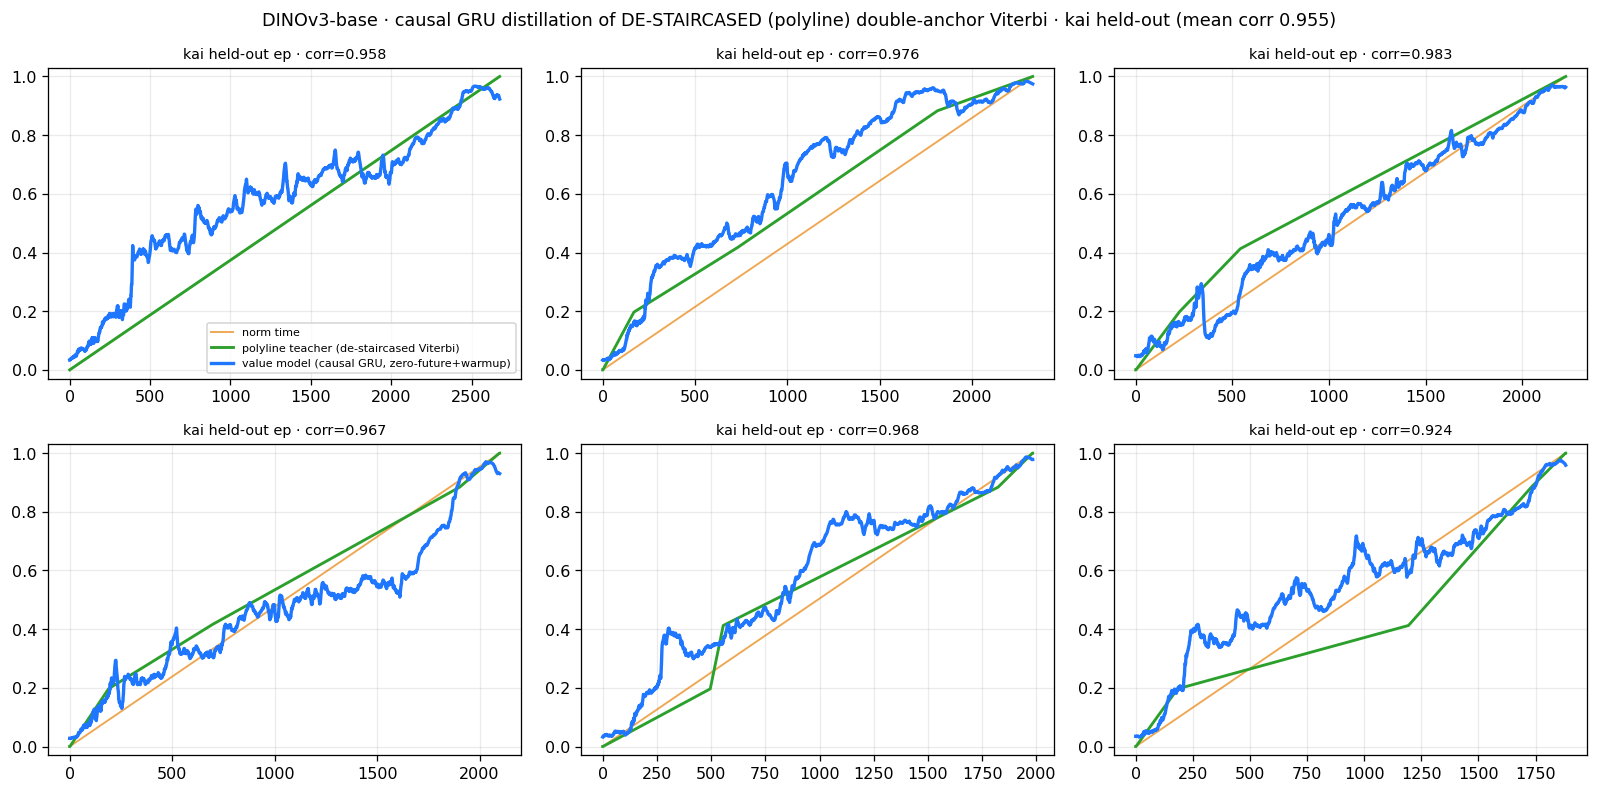
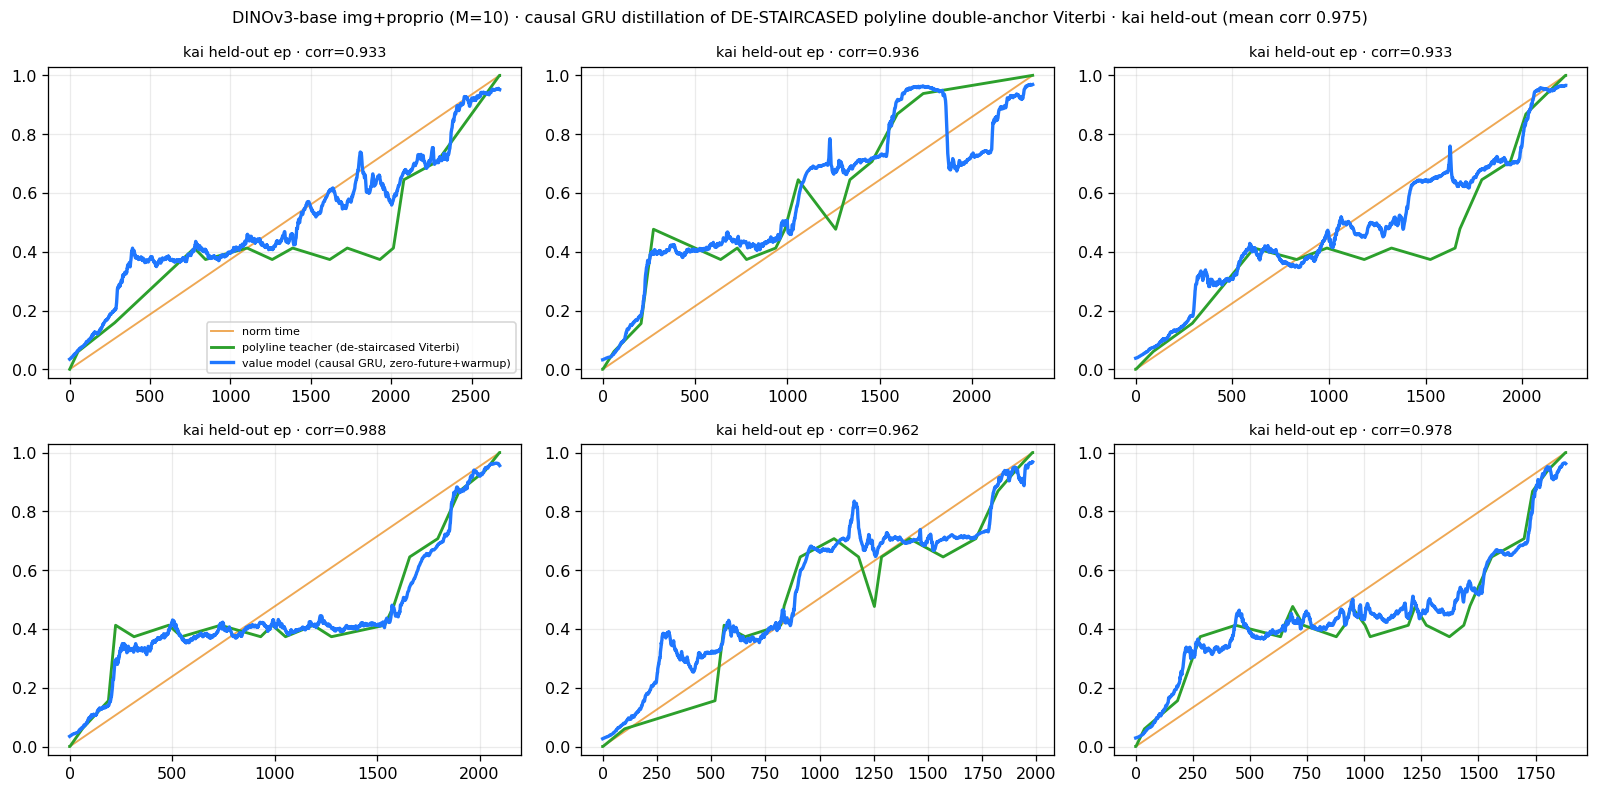
web报告§5.3: teacher过平根因修复(img-only M3→img⊕proprio M10)
- 用户发现 teacher 近直线; 诊断: kai-only img-only PCA 只聚出 M=3 milestone
  → knot 少且各 value≈其时间 + 多数ep step退化0→1 → polyline 塌成对角线
- 非 Viterbi 出错; 是漏了 proprio。对齐 online_readout_route 单任务方案:
  img PCA128 ⊕ proprio14(1:1 L2)→ M=10, teacher 现出~0.4折叠平台+拐点结构
- teacher-vs-T 0.955, GRU held-out 0.975; 更新图+caption; 存诊断图 diag_*_M3

diff --git a/web/showcase/reports/crave_report/index.html b/web/showcase/reports/crave_report/index.html
@@ -325,7 +325,7 @@ a.link{color:var(--accent3);text-decoration:none;border-bottom:1px dashed var(--
   <li><b>效果</b>:留出集(严格未见)corr vs 监督GT <b>0.955 ≥ 离线本身 0.943</b> → gap 归零,还平滑掉了离散阶梯噪声。</li>
 </ul>
 <figure><img src="assets/online_gru_heldout.png" alt="因果 GRU 留出集">
-  <figcaption><b>档③ 因果 GRU(蓝,零未来+warmup)蒸馏「去阶梯 polyline 双锚 Viterbi」teacher(绿)· 6 条 kai 严格留出 ep</b>:student 平滑贴合 polyline ramp(<b>非硬阶梯</b>),mean corr <b>0.955</b> 追平离线;首帧 warmup 已消除 GRU 冷启动尖峰(从 0 起步)。橙=归一时间参考。同一因果模型可跨 12 任务共享(见 §6 复用与选型)。</figcaption>
+  <figcaption><b>档③ 因果 GRU(蓝,零未来+warmup)蒸馏「去阶梯 polyline 双锚 Viterbi」teacher(绿)· 6 条 kai 严格留出 ep(img PCA128 ⊕ proprio14,M=10 milestone)</b>:teacher 明显偏离橙色时间对角线——<b>~0.4 处的折叠停留平台</b>(主 milestone)、中段拐点、个别 ep 的再抓回落,正是 CRAVE 相对"朴素时间"的增量;student 平滑贴合(mean corr <b>0.975</b>,首帧 warmup 消除冷启动尖峰、从 0 起步)。同一因果模型可跨 12 任务共享(见 §6 复用与选型)。</figcaption>
 </figure>
 <div class="callout ok"><b>首帧冷启动已修:</b>单向 GRU 在 t=0 时 h₀=0 无时序上下文 → 首帧输出冷启动默认值(跨任务一致的架构性小尖峰)。<b>推理时 warmup</b>(首帧复制 ~20 步前置进 GRU、丢弃预热输出)把首帧 pred 从 0.057→0.009 直接消除,零重训、因果友好。</div>
 

diff --git a/lmvla/crave/experiments/diag_kai_teacher.py b/lmvla/crave/experiments/diag_kai_teacher.py
@@ -1,0 +1,87 @@
+#!/usr/bin/env python
+"""诊断: kai polyline teacher 为什么接近直线? Viterbi 坏了吗?
+打印 M + milestone 值; 对 3 条 ep 画 step(阶梯) vs polyline(去阶梯) vs milestone 水平线 + norm time。
+输出 temp/diag_kai_teacher.png。
+"""
+import numpy as np, time
+from pathlib import Path
+from sklearn.decomposition import PCA
+from sklearn.mixture import BayesianGaussianMixture
+import matplotlib; matplotlib.use('Agg'); import matplotlib.pyplot as plt
+
+REPO = Path('/vePFS/tim/workspace/deepdive_kai0'); rng = np.random.RandomState(0); CAP = 1000; FPS = 30.
+def l2(x): return x/(np.linalg.norm(x, axis=-1, keepdims=True)+1e-9)
+def cc(a, b): return np.corrcoef(a, b)[0, 1] if a.std() > 1e-6 and b.std() > 1e-6 else np.nan
+
+
+def daw(F, C, P, lam, want_step=False):
+    sC = l2(F[:3].mean(0)[None])[0]; eC = l2(F[-3:].mean(0)[None])[0]
+    C2 = np.vstack([C, sC, eC]); Pp = np.concatenate([P, [0.], [1.]])
+    bins = np.unique(np.concatenate([[0.], Pp, [1.]])); nb = len(bins)
+    cb = [int(np.searchsorted(bins, v)) for v in Pp]; pen = lam*np.abs(bins[:, None]-bins[None])
+    de = np.linalg.norm(F[:, None]-C2[None], axis=2); em = np.full((len(F), nb), 1e3)
+    for ti in range(len(Pp)): em[:, cb[ti]] = np.minimum(em[:, cb[ti]], de[:, ti])
+    cost = np.full(nb, 1e9); cost[0] = em[0, 0]; BP = np.zeros((len(F), nb), int)
+    for j in range(1, len(F)):
+        tr = cost[None, :]+pen; kk = tr.argmin(1); cost = em[j]+tr[np.arange(nb), kk]; BP[j] = kk
+    si = nb-1; path = np.zeros(len(F), int); path[-1] = si
+    for j in range(len(F)-2, -1, -1): si = BP[j+1][si]; path[j] = si
+    step = bins[path]; segs = []; a = 0
+    for t in range(1, len(step)):
+        if step[t] != step[t-1]: segs.append((a, t-1, step[t-1])); a = t
+    segs.append((a, len(step)-1, step[-1])); reps = []
+    for i0, i1, val in segs:
+        cand = [ti for ti in range(len(Pp)) if abs(Pp[ti]-val) < 1e-9]; fr = np.arange(i0, i1+1); bd = 1e18; bf = i0
+        for ti in cand:
+            dd = np.linalg.norm(F[fr]-C2[ti], axis=1); k = int(dd.argmin())
+            if dd[k] < bd: bd = dd[k]; bf = fr[k]
+        reps.append((bf, float(val)))
+    if reps[0][0] != 0: reps = [(0, float(step[0]))]+reps
+    if reps[-1][0] != len(step)-1: reps = reps+[(len(step)-1, float(step[-1]))]
+    rf = np.array([r[0] for r in reps]); rv = np.array([r[1] for r in reps]); keep = np.concatenate([[True], np.diff(rf) > 0])
+    poly = np.interp(np.arange(len(step)), rf[keep], rv[keep]).astype(np.float32)
+    return (poly, step, rf[keep], rv[keep]) if want_step else poly
+
+
+t0 = time.time(); d = REPO/'lmvla/crave/data/kai_dinov3base'; idx = np.load(d/'index.npz'); E = idx['E']; FR = idx['FR']
+feat = np.zeros((len(E), 768), np.float16)
+for sh in sorted(d.glob('shard_*.npz')):
+    s = np.load(sh); g = s['gidx']; v = s['valid'] if 'valid' in s else np.ones(len(g), bool); feat[g[v]] = s['feat'][v]
+eps = sorted(np.unique(E).tolist())
+if len(eps) > CAP: eps = [eps[i] for i in sorted(rng.choice(len(eps), CAP, replace=False))]
+keep = np.isin(E, eps); E = E[keep]; FR = FR[keep]; feat = feat[keep]
+T = np.zeros(len(E), np.float32)
+for e in eps:
+    m = np.where(E == e)[0]; o = m[np.argsort(FR[m])]; T[o] = np.linspace(0, 1, len(o))
+pca = PCA(128, random_state=0).fit(l2(feat[rng.choice(len(feat), 20000, replace=False)].astype(np.float32)))
+F128 = l2((l2(feat.astype(np.float32))-pca.mean_.astype(np.float32))@pca.components_.astype(np.float32).T); NC = len(eps)
+bg = BayesianGaussianMixture(n_components=40, covariance_type='diag', weight_concentration_prior=1e-2, max_iter=120, random_state=0).fit(F128[rng.choice(len(F128), 80000, replace=False)])
+labs = bg.predict(F128); C = []; P = []; COV = []
+for k in range(40):
+    m = labs == k
+    if m.sum() < 20: continue
+    cov = len(set(E[m].tolist()))/NC
+    if cov >= 0.5: C.append(F128[m].mean(0)); P.append(float(np.median(T[m]))); COV.append(cov)
+C = l2(np.array(C, np.float32)); P = np.array(P); lam = 16.*FPS/3.
+order = np.argsort(P)
+print(f'[{time.time()-t0:.0f}s] M={len(C)} milestones', flush=True)
+print('milestone median-T (sorted):', np.round(np.sort(P), 3).tolist(), flush=True)
+print('coverage (same order):', np.round(np.array(COV)[order], 2).tolist(), flush=True)
+
+# 诊断图: 3 条 ep, step vs polyline vs milestone 水平线
+pickeps = eps[::len(eps)//3][:3]
+fig, axes = plt.subplots(1, 3, figsize=(16, 4.5))
+for ax, e in zip(axes, pickeps):
+    m = np.where(E == e)[0]; o = m[np.argsort(FR[m])]; f = F128[o]; t = T[o]
+    poly, step, rf, rv = daw(f, C, P, lam, want_step=True)
+    x = np.arange(len(f))
+    for pv in P: ax.axhline(pv, color='#bbb', lw=.6, ls=':')
+    ax.plot(x, t, color='#e8830c', lw=1.2, alpha=.6, label='norm time')
+    ax.plot(x, step, color='#888', lw=1.0, alpha=.9, label='step (staircase Viterbi)')
+    ax.plot(x, poly, color='#2ca02c', lw=2.0, label='polyline (de-staircased)')
+    ax.plot(rf, rv, 'ko', ms=4, label='rep-frame knots')
+    ax.set_title(f'kai ep{e}  step-vs-time corr={cc(step,t):.3f}', fontsize=9); ax.set_ylim(-.03, 1.03); ax.grid(alpha=.2)
+axes[0].legend(fontsize=7, loc='lower right')
+fig.suptitle(f'kai teacher 诊断: M={len(C)} milestones (灰点线=milestone median-T 值) · 灰=step 阶梯 / 绿=polyline', fontsize=11)
+fig.tight_layout(); outp = REPO/'lmvla/crave/temp/diag_kai_teacher.png'
+fig.savefig(outp, dpi=120, bbox_inches='tight'); print('SAVED', outp, flush=True)

diff --git a/lmvla/crave/experiments/render_kai_online_gru.py b/lmvla/crave/experiments/render_kai_online_gru.py
@@ -1,11 +1,12 @@
 #!/usr/bin/env python
 """§5.3 最终版配图: kai 因果 GRU 蒸馏【去阶梯 polyline 双锚 Viterbi】teacher.
 
-最终方案 = teacher 用 daw() 的 polyline(代表帧分段线性, 非硬阶梯)。
-本脚本自洽跑 kai 单任务全管线并渲 6 条留出 ep(value model 零未来+warmup vs polyline teacher vs time)。
-输出: temp/base_kai_gru.png → 覆盖 report assets/online_gru_heldout.png。
+对齐 online_readout_route 单任务方案: 特征 = img PCA128(L2) ⊕ proprio位置14(标准化+L2), 1:1。
+proprio 是最强相位锚 → milestone 从 img-only 的 M=3 拉回 M≈12, teacher 有真实阶段结构(非退化对角线)。
+teacher = daw() 去阶梯 polyline; student = 142D 单向 GRU(严格因果 + 首帧 warmup)。
+输出 temp/base_kai_gru.png → 覆盖 report assets/online_gru_heldout.png。
 """
-import numpy as np, time, torch, torch.nn as nn
+import numpy as np, time, torch, torch.nn as nn, pandas as pd
 from pathlib import Path
 from sklearn.decomposition import PCA
 from sklearn.mixture import BayesianGaussianMixture
@@ -13,12 +14,13 @@ import matplotlib; matplotlib.use('Agg'); import matplotlib.pyplot as plt
 
 REPO = Path('/vePFS/tim/workspace/deepdive_kai0'); DEV = 'cuda:0'
 rng = np.random.RandomState(0); torch.manual_seed(0)
-CAP = 1000; FPS = 30.
+CAP = 1000; FPS = 30.; CSQ = 1000
+KAI = REPO/'kai0/data/Task_A/kai0_base'   # proprio 源 (observation.state 14D)
 def l2(x): return x/(np.linalg.norm(x, axis=-1, keepdims=True)+1e-9)
 def cc(a, b): return np.corrcoef(a, b)[0, 1] if a.std() > 1e-6 and b.std() > 1e-6 else np.nan
 
 
-def daw(F, C, P, lam):  # 双锚 Viterbi → polyline(去阶梯: 代表帧分段线性)
+def daw(F, C, P, lam):  # 双锚 Viterbi → polyline(去阶梯)
     sC = l2(F[:3].mean(0)[None])[0]; eC = l2(F[-3:].mean(0)[None])[0]
     C2 = np.vstack([C, sC, eC]); Pp = np.concatenate([P, [0.], [1.]])
     bins = np.unique(np.concatenate([[0.], Pp, [1.]])); nb = len(bins)
@@ -43,7 +45,7 @@ def daw(F, C, P, lam):  # 双锚 Viterbi → polyline(去阶梯: 代表帧分段
     if reps[0][0] != 0: reps = [(0, float(step[0]))]+reps
     if reps[-1][0] != len(step)-1: reps = reps+[(len(step)-1, float(step[-1]))]
     rf = np.array([r[0] for r in reps]); rv = np.array([r[1] for r in reps]); keep = np.concatenate([[True], np.diff(rf) > 0])
-    return np.interp(np.arange(len(step)), rf[keep], rv[keep]).astype(np.float32)  # ← polyline(去阶梯)
+    return np.interp(np.arange(len(step)), rf[keep], rv[keep]).astype(np.float32)
 
 
 print('加载 kai base bank...', flush=True); t0 = time.time()
@@ -54,35 +56,45 @@ for sh in sorted(d.glob('shard_*.npz')):
 eps = sorted(np.unique(E).tolist())
 if len(eps) > CAP: eps = [eps[i] for i in sorted(rng.choice(len(eps), CAP, replace=False))]
 keep = np.isin(E, eps); E = E[keep]; FR = FR[keep]; feat = feat[keep]
+print(f'  {len(eps)} eps {len(E)} frames; PCA...', flush=True)
+pca = PCA(128, random_state=0).fit(l2(feat[rng.choice(len(feat), min(20000, len(feat)), replace=False)].astype(np.float32)))
+IMG = l2((l2(feat.astype(np.float32))-pca.mean_.astype(np.float32))@pca.components_.astype(np.float32).T)
+
+# ---- proprio: per-ep parquet observation.state[FR] → pos14 ----
+print(f'  [{time.time()-t0:.0f}s] 读 proprio parquet...', flush=True)
+POS = np.zeros((len(E), 14), np.float32)
+for e in eps:
+    m = np.where(E == e)[0]; o = m[np.argsort(FR[m])]; fr = FR[m][np.argsort(FR[m])]
+    st = np.stack(pd.read_parquet(KAI/f'data/chunk-{e//CSQ:03d}/episode_{e:06d}.parquet',
+                  columns=['observation.state'])['observation.state'].to_numpy()).astype(np.float32)
+    POS[o] = st[np.minimum(fr, len(st)-1)]
+SMU = POS.mean(0); SSD = POS.std(0)+1e-6
+JOINT = np.concatenate([IMG, l2((POS-SMU)/SSD)], 1).astype(np.float32)  # 142D, img:pos 能量 1:1
+D = JOINT.shape[1]; NC = len(eps)
 T = np.zeros(len(E), np.float32)
 for e in eps:
     m = np.where(E == e)[0]; o = m[np.argsort(FR[m])]; T[o] = np.linspace(0, 1, len(o))
-print(f'  {len(eps)} eps {len(E)} frames ({time.time()-t0:.0f}s)', flush=True)
 
-pca = PCA(128, random_state=0).fit(l2(feat[rng.choice(len(feat), min(20000, len(feat)), replace=False)].astype(np.float32)))
-pm = pca.mean_.astype(np.float32); pc = pca.components_.astype(np.float32)
-F128 = l2((l2(feat.astype(np.float32))-pm)@pc.T); NC = len(eps)
-print(f'PCA768→128 ({time.time()-t0:.0f}s); BayesianGMM...', flush=True)
-bg = BayesianGaussianMixture(n_components=40, covariance_type='diag', weight_concentration_prior=1e-2, max_iter=120, random_state=0).fit(F128[rng.choice(len(F128), min(80000, len(F128)), replace=False)])
-labs = bg.predict(F128); C = []; P = []
+print(f'  [{time.time()-t0:.0f}s] BayesianGMM on {D}D (img⊕proprio)...', flush=True)
+bg = BayesianGaussianMixture(n_components=40, covariance_type='diag', weight_concentration_prior=1e-2, max_iter=120, random_state=0).fit(JOINT[rng.choice(len(JOINT), min(80000, len(JOINT)), replace=False)])
+labs = bg.predict(JOINT); C = []; P = []
 for k in range(40):
     m = labs == k
     if m.sum() < 20: continue
-    if len(set(E[m].tolist()))/NC >= 0.5: C.append(F128[m].mean(0)); P.append(float(np.median(T[m])))
+    if len(set(E[m].tolist()))/NC >= 0.5: C.append(JOINT[m].mean(0)); P.append(float(np.median(T[m])))
 C = l2(np.array(C, np.float32)); P = np.array(P); lam = 16.*FPS/3.
-print(f'M={len(C)} milestones ({time.time()-t0:.0f}s); polyline teacher...', flush=True)
+print(f'  [{time.time()-t0:.0f}s] M={len(C)} milestones; polyline teacher...', flush=True)
 DATA = []
 for e in eps:
-    m = np.where(E == e)[0]; o = m[np.argsort(FR[m])]; f = F128[o]; t = T[o]
+    m = np.where(E == e)[0]; o = m[np.argsort(FR[m])]; f = JOINT[o]; t = T[o]
     DATA.append((f, daw(f, C, P, lam), t))
-tc = [cc(v, t) for f, v, t in DATA]; print(f'teacher-vs-T corr={np.nanmean(tc):.3f} ({time.time()-t0:.0f}s)', flush=True)
-
+tc = np.nanmean([cc(v, t) for f, v, t in DATA]); print(f'  teacher-vs-T corr={tc:.3f} ({time.time()-t0:.0f}s)', flush=True)
 rng.shuffle(DATA); k = int(len(DATA)*0.85); TR = DATA[:k]; EV = DATA[k:]
 
 
 class G(nn.Module):
     def __init__(s, h=256, L=2):
-        super().__init__(); s.g = nn.GRU(128, h, L, batch_first=True)
+        super().__init__(); s.g = nn.GRU(D, h, L, batch_first=True)
         s.head = nn.Sequential(nn.Linear(h, 128), nn.GELU(), nn.Linear(128, 1))
 
     def forward(s, x, ln):
@@ -95,7 +107,7 @@ def batches(pool, bs=24):
     ix = sorted(range(len(pool)), key=lambda i: len(pool[i][0]))
     for kk in range(0, len(ix), bs):
         gp = [pool[i] for i in ix[kk:kk+bs]]; L = max(len(a[0]) for a in gp); B = len(gp)
-        X = np.zeros((B, L, 128), np.float32); Y = np.zeros((B, L), np.float32); M = np.zeros((B, L), np.float32); ln = np.zeros(B, int)
+        X = np.zeros((B, L, D), np.float32); Y = np.zeros((B, L), np.float32); M = np.zeros((B, L), np.float32); ln = np.zeros(B, int)
         for b, (f, v, t) in enumerate(gp): n = len(f); X[b, :n] = f; Y[b, :n] = v; M[b, :n] = 1; ln[b] = n
         yield torch.tensor(X, device=DEV), torch.tensor(Y, device=DEV), torch.tensor(M, device=DEV), torch.tensor(ln)
 
@@ -113,7 +125,7 @@ net.eval()
 
 
 @torch.no_grad()
-def pred(f, warm=20):  # 因果 + 首帧 warmup(零未来)
+def pred(f, warm=20):
     fw = np.concatenate([f[:1].repeat(warm, 0), f])
     return net(torch.tensor(fw[None], device=DEV), torch.tensor([len(fw)]))[0].cpu().numpy()[warm:]
 
@@ -121,7 +133,6 @@ def pred(f, warm=20):  # 因果 + 首帧 warmup(零未来)
 ev_corr = np.nanmean([cc(pred(f), v) for f, v, t in EV])
 print(f'held-out corr(value model vs polyline teacher)={ev_corr:.3f} ({time.time()-t0:.0f}s)', flush=True)
 
-# 渲 6 条留出 ep(长度居中优先, 好看)
 order = sorted(range(len(EV)), key=lambda i: -len(EV[i][0]))[:12]
 pick = [order[i] for i in np.linspace(0, len(order)-1, 6).astype(int)]
 fig, axes = plt.subplots(2, 3, figsize=(14, 7)); axes = axes.flatten()
@@ -132,7 +143,7 @@ for ax, i in zip(axes, pick):
     ax.plot(p, color='#1f77ff', lw=2.1, label='value model (causal GRU, zero-future+warmup)')
     ax.set_title(f'kai held-out ep · corr={cc(p, v):.3f}', fontsize=9); ax.set_ylim(-.03, 1.03); ax.grid(alpha=.25)
 axes[0].legend(fontsize=7, loc='lower right')
-fig.suptitle(f'DINOv3-base · causal GRU distillation of DE-STAIRCASED (polyline) double-anchor Viterbi · kai held-out (mean corr {ev_corr:.3f})', fontsize=11)
+fig.suptitle(f'DINOv3-base img+proprio (M={len(C)}) · causal GRU distillation of DE-STAIRCASED polyline double-anchor Viterbi · kai held-out (mean corr {ev_corr:.3f})', fontsize=10)
 fig.tight_layout()
 outp = REPO/'lmvla/crave/temp/base_kai_gru.png'; outp.parent.mkdir(parents=True, exist_ok=True)
 fig.savefig(outp, dpi=115, bbox_inches='tight'); print('SAVED', outp, flush=True)